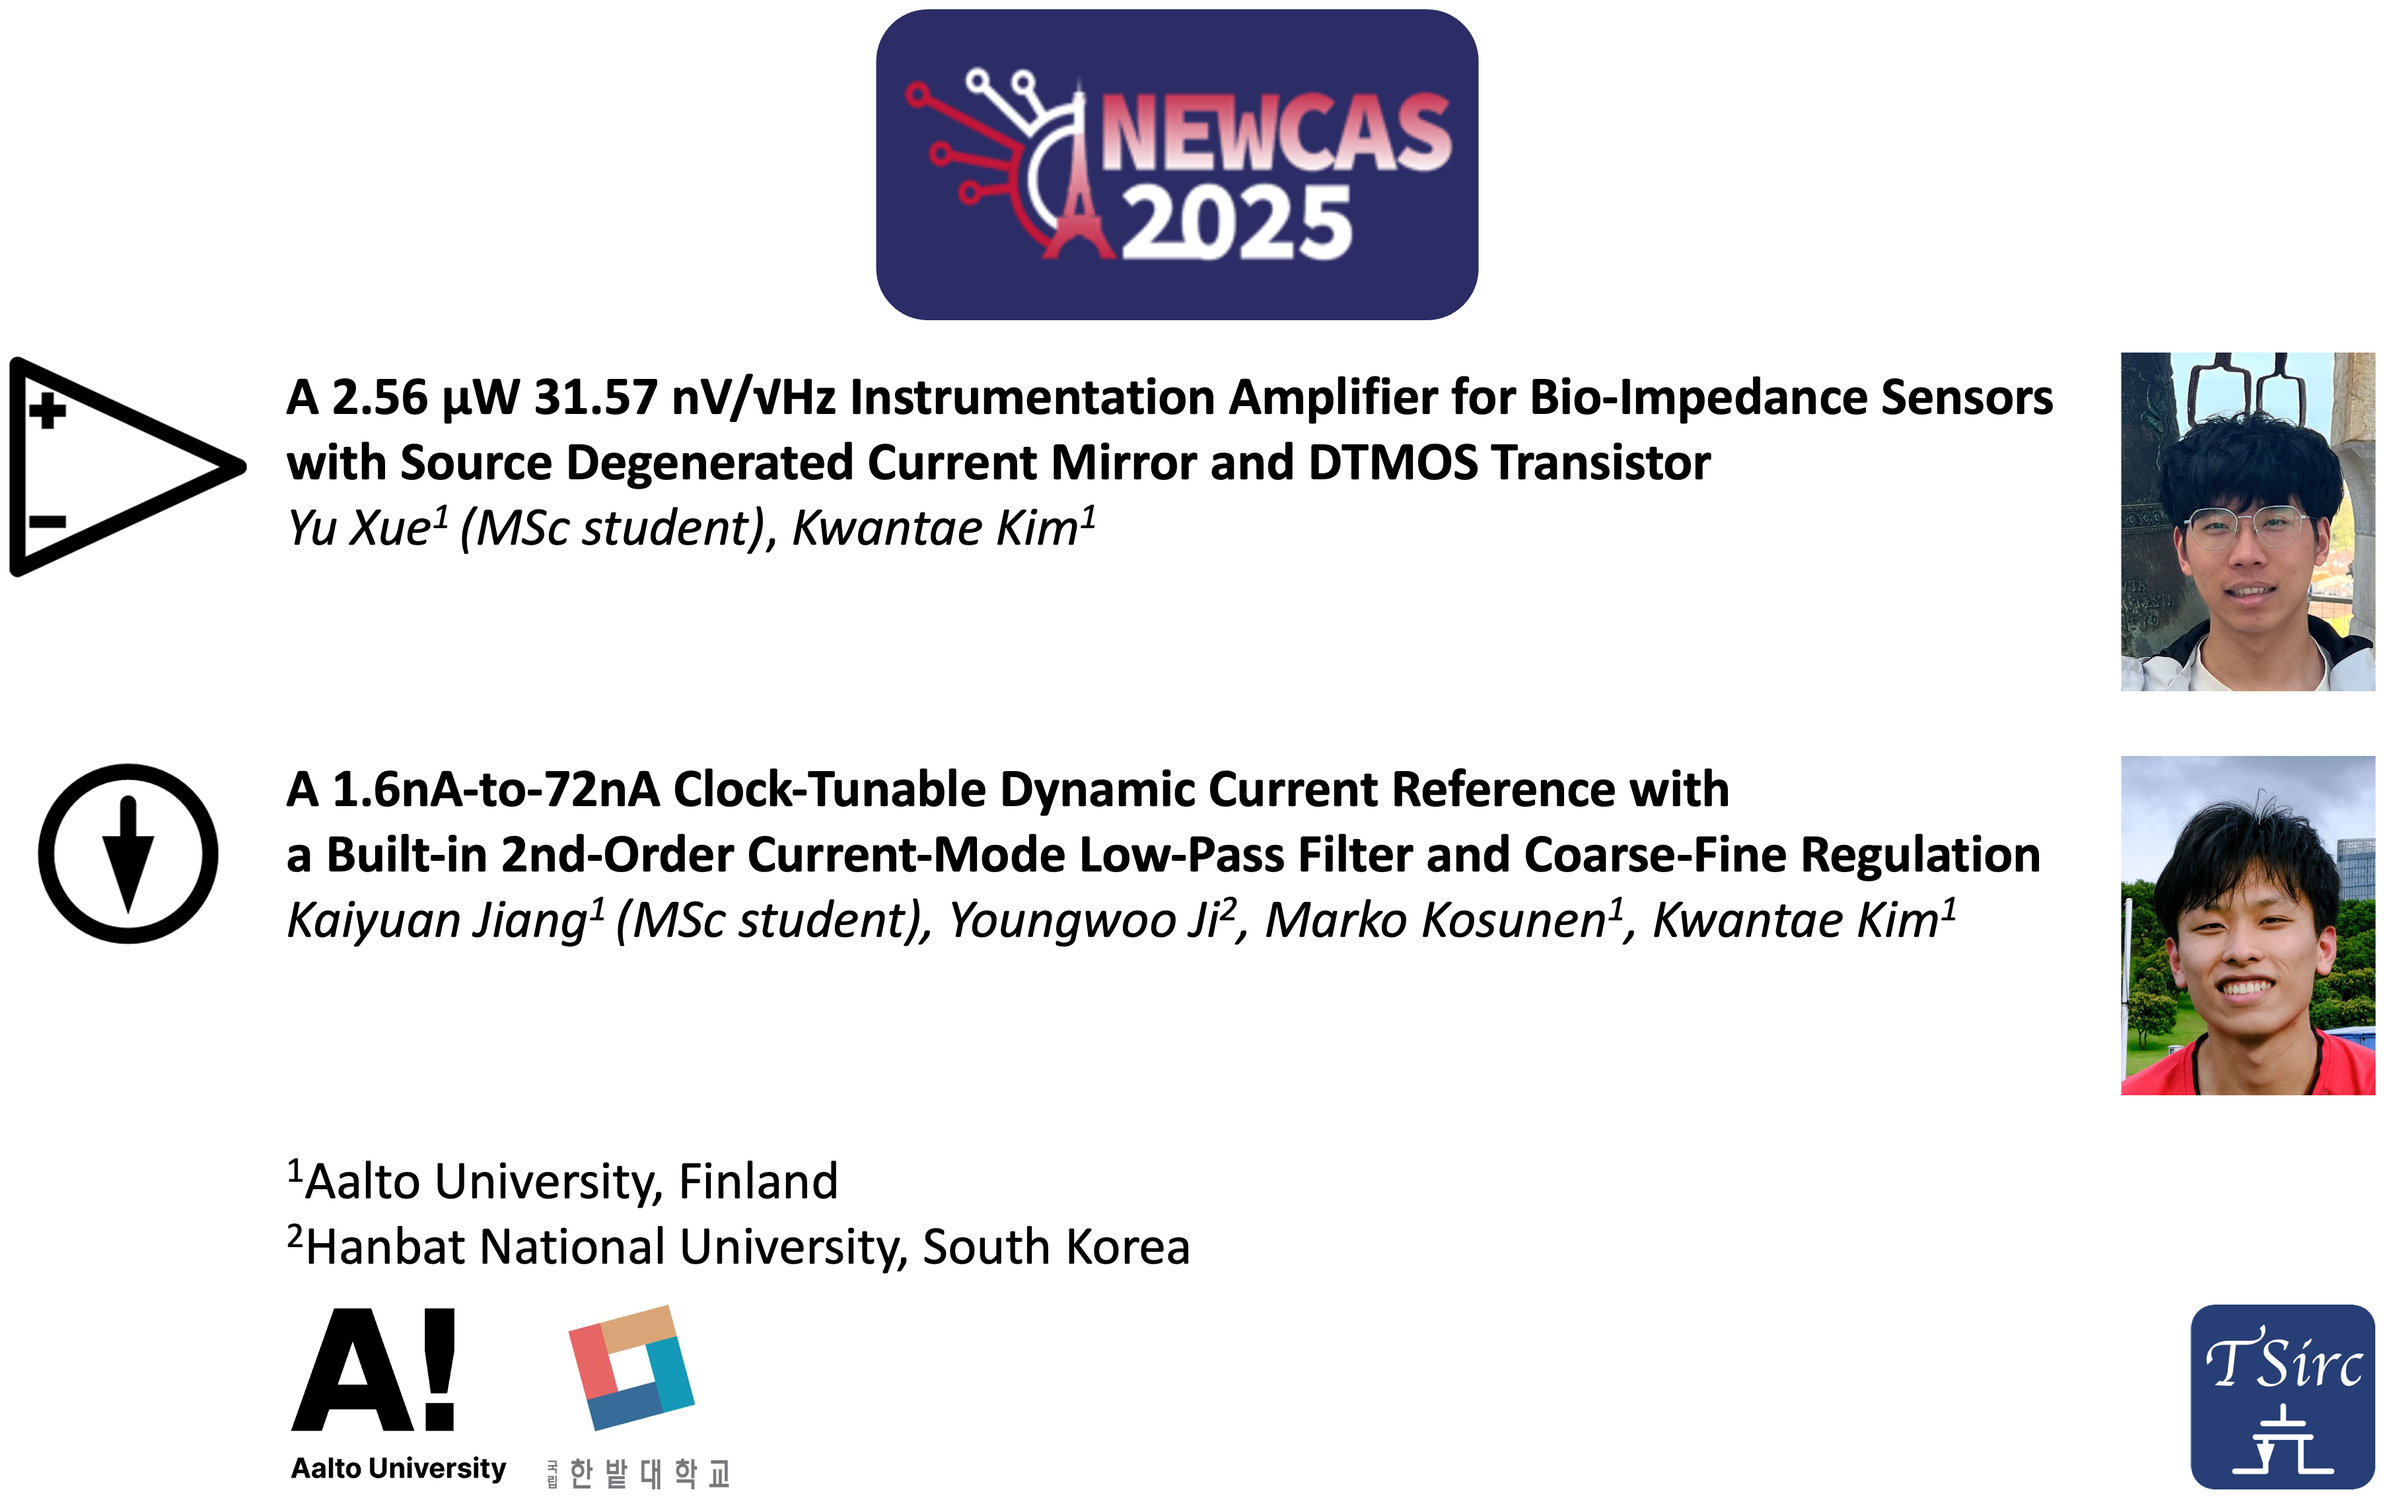
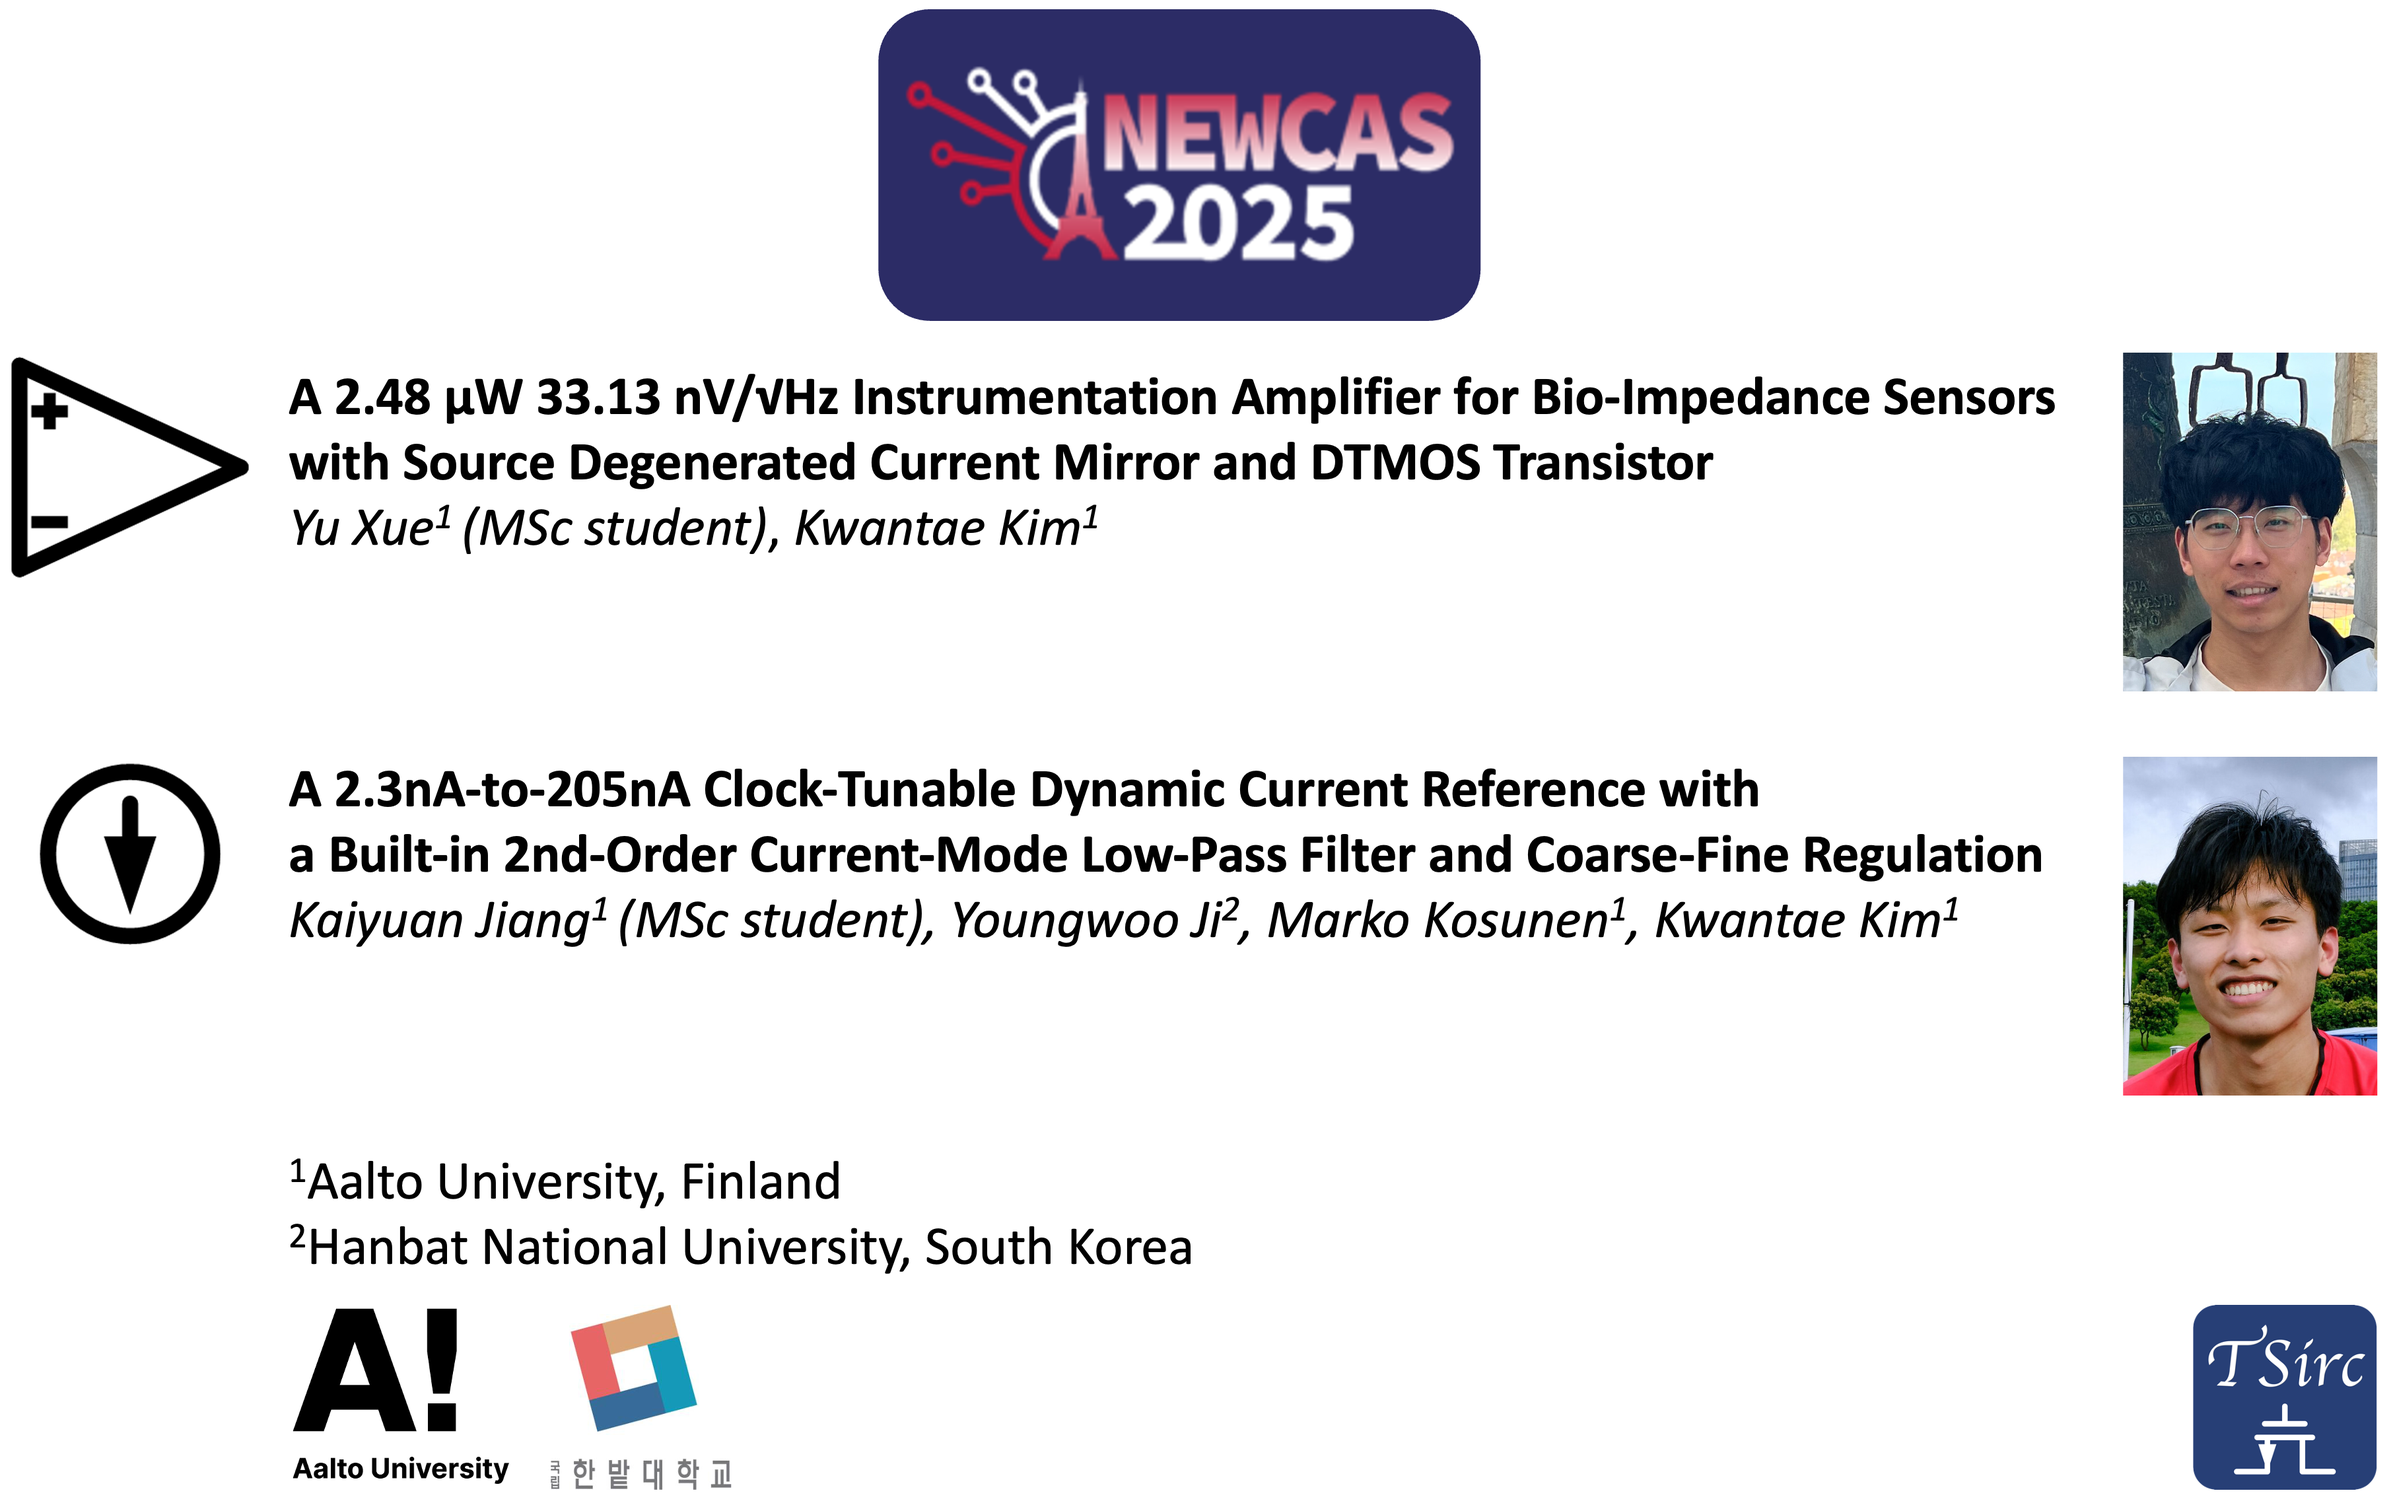
pub

diff --git a/publications.md b/publications.md
@@ -106,7 +106,7 @@ span.venue {font-style: italic;}
 <thead class="skip"><tr><th>.</th></tr></thead><tbody class='pub'>
   <tr><td class="tg-desc">
     <span style="color: #485fc7">
-    A 1.6nA-to-72nA Clock-Tunable Dynamic Current Reference with a Built-in 2nd-Order Current-Mode Low-Pass Filter and Coarse-Fine Regulation    
+    A 2.3nA-to-205nA Clock-Tunable Dynamic Current Reference with a Built-in 2nd-Order Current-Mode Low-Pass Filter and Coarse-Fine Regulation    
     </span><br>
     Kaiyuan Jiang, Youngwoo Ji, Marko Kosunen, Kwantae Kim
     <div class="img-container"><img src="./../img/icons/logo--newcas25.png" class="hover-newcas25" style="background-color: #2C2C66; padding: 10px; border-radius: 10px;"></div>
@@ -114,7 +114,7 @@ span.venue {font-style: italic;}
   </td></tr>
   <tr><td class="tg-desc">
     <span style="color: #485fc7">
-    A 2.56 μW 31.57 nV/√Hz Instrumentation Amplifier for Bio-Impedance Sensors with Source Degenerated Current Mirror and DTMOS Transistor
+    A 2.48 μW 33.13 nV/√Hz Instrumentation Amplifier for Bio-Impedance Sensors with Source Degenerated Current Mirror and DTMOS Transistor
     </span><br>
     Yu Xue, Kwantae Kim
     <div class="img-container"><img src="./../img/icons/logo--newcas25.png" class="hover-newcas25" style="background-color: #2C2C66; padding: 10px; border-radius: 10px;"></div>

diff --git a/group-prof.md b/group-prof.md
@@ -92,7 +92,7 @@ toc_title: TSirc Group
 <!-- ETH -->
 <div class="tab-row" style="display: flex; align-items: center;">
   <div class="tab-cell" style="flex: 1.5;">
-    <span style="margin-right: 0.2em;"></span><i class="fa-solid fa-user-tie"></i><span style="margin-right: 0.2em;"></span> Establisehd Researcher</div>
+    <span style="margin-right: 0.2em;"></span><i class="fa-solid fa-user-tie"></i><span style="margin-right: 0.2em;"></span> Established Researcher</div>
   <div class="tab-cell" style="flex: 4;">ETH Zurich, Switzerland <span class='emoji'>🇨🇭</span></div>
   <div class="tab-cell" style="flex: 1;">2023 ~ 2024</div>
 </div>
